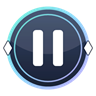
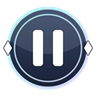
feat(art): HUD gradient rims at half saturation
AstralHud draws every rim colour through Soft(), which halves its HSV
saturation at the same brightness; AstralBackgrounds does the same for
the score-rank plate's rim. Regenerated the HUD images, the plate and
the live atlas, matching the softer hues of the song info page.

Changed region(s): [[0.0625, 0.0625, 0.9375, 0.9375], [0.6562, 0.6562, 0.8125, 0.8125]]

diff --git a/ArtSource/Tools/AstralHud.cs b/ArtSource/Tools/AstralHud.cs
@@ -27,13 +27,15 @@ public static class AstralHud {
     // HUD rims: a pastel gradient in the backdrop's hues (rose and violet on the left of the screen, blue and
     // mint on the right) instead of a flat white line. `angle` is the gradient direction in degrees.
     static Color Lt(Color c){return Mix(c,Color.White,.3f);}
+    // Every rim colour is drawn at half its saturation (HSV), keeping its brightness.
+    static Color Soft(Color c){int m=Math.Max(c.R,Math.Max(c.G,c.B));return Color.FromArgb((c.R+m)/2,(c.G+m)/2,(c.B+m)/2);}
     static Color[] RimScore{get{return new[]{Lt(Pink),Lt(Purple),Lt(Blue)};}}
     static Color[] RimLife{get{return new[]{Lt(Purple),Lt(Blue),Lt(Mint)};}}
     static Color[] RimButton{get{return new[]{Lt(Mint),Lt(Blue),Lt(Purple)};}}
     static void Rim(Graphics g,GraphicsPath path,float width,int alpha,float angle,params Color[] colors){
         RectangleF r=path.GetBounds();r.Inflate(width+1,width+1);
         var positions=new float[colors.Length];var stops=new Color[colors.Length];
-        for(int i=0;i<colors.Length;i++){positions[i]=i/(float)(colors.Length-1);stops[i]=A(alpha,colors[i]);}
+        for(int i=0;i<colors.Length;i++){positions[i]=i/(float)(colors.Length-1);stops[i]=A(alpha,Soft(colors[i]));}
         using(var b=new LinearGradientBrush(r,Color.Black,Color.Black,angle)){
             b.InterpolationColors=new ColorBlend{Positions=positions,Colors=stops};
             using(var pen=new Pen(b,width)){pen.LineJoin=LineJoin.Bevel;g.DrawPath(pen,path);}

diff --git a/ArtSource/Tools/AstralBackgrounds.cs b/ArtSource/Tools/AstralBackgrounds.cs
@@ -139,6 +139,8 @@ public static class AstralBackgrounds {
             Constellation(g,w*.85f,h*.76f,w*.063f,2,A(70,C("#668d9f")));
         }
     }
+    // Half saturation (HSV) at the same brightness, as AstralHud.Soft does for every HUD rim.
+    static Color Soft(Color c){int m=Math.Max(c.R,Math.Max(c.G,c.B));return Color.FromArgb((c.R+m)/2,(c.G+m)/2,(c.B+m)/2);}
     static Bitmap Plate(int w,int h){
         var image=new Bitmap(w,h,PixelFormat.Format32bppArgb);
         using(var g=Graphics.FromImage(image)){
@@ -152,7 +154,7 @@ public static class AstralBackgrounds {
             // Gradient rim (the HUD's rose-violet-blue, AstralHud.RimScore) and a violet hairline, sized to read
             // at roughly 110 x 150 display pixels.
             using(var p=Rounded(5,5,w-10,h-10,49))using(var rim=new LinearGradientBrush(new RectangleF(-4,-4,w+8,h+8),Color.Black,Color.Black,55f)){
-                rim.InterpolationColors=new ColorBlend{Positions=new[]{0f,.5f,1f},Colors=new[]{A(240,Mix(Pink,Color.White,.3f)),A(240,Mix(Purple,Color.White,.3f)),A(240,Mix(Blue,Color.White,.3f))}};
+                rim.InterpolationColors=new ColorBlend{Positions=new[]{0f,.5f,1f},Colors=new[]{A(240,Soft(Mix(Pink,Color.White,.3f))),A(240,Soft(Mix(Purple,Color.White,.3f))),A(240,Soft(Mix(Blue,Color.White,.3f)))}};
                 using(var pen=new Pen(rim,8f))g.DrawPath(pen,p);
             }
             using(var p=Rounded(15,15,w-30,h-30,40))using(var pen=new Pen(A(95,Purple),4f))g.DrawPath(pen,p);
